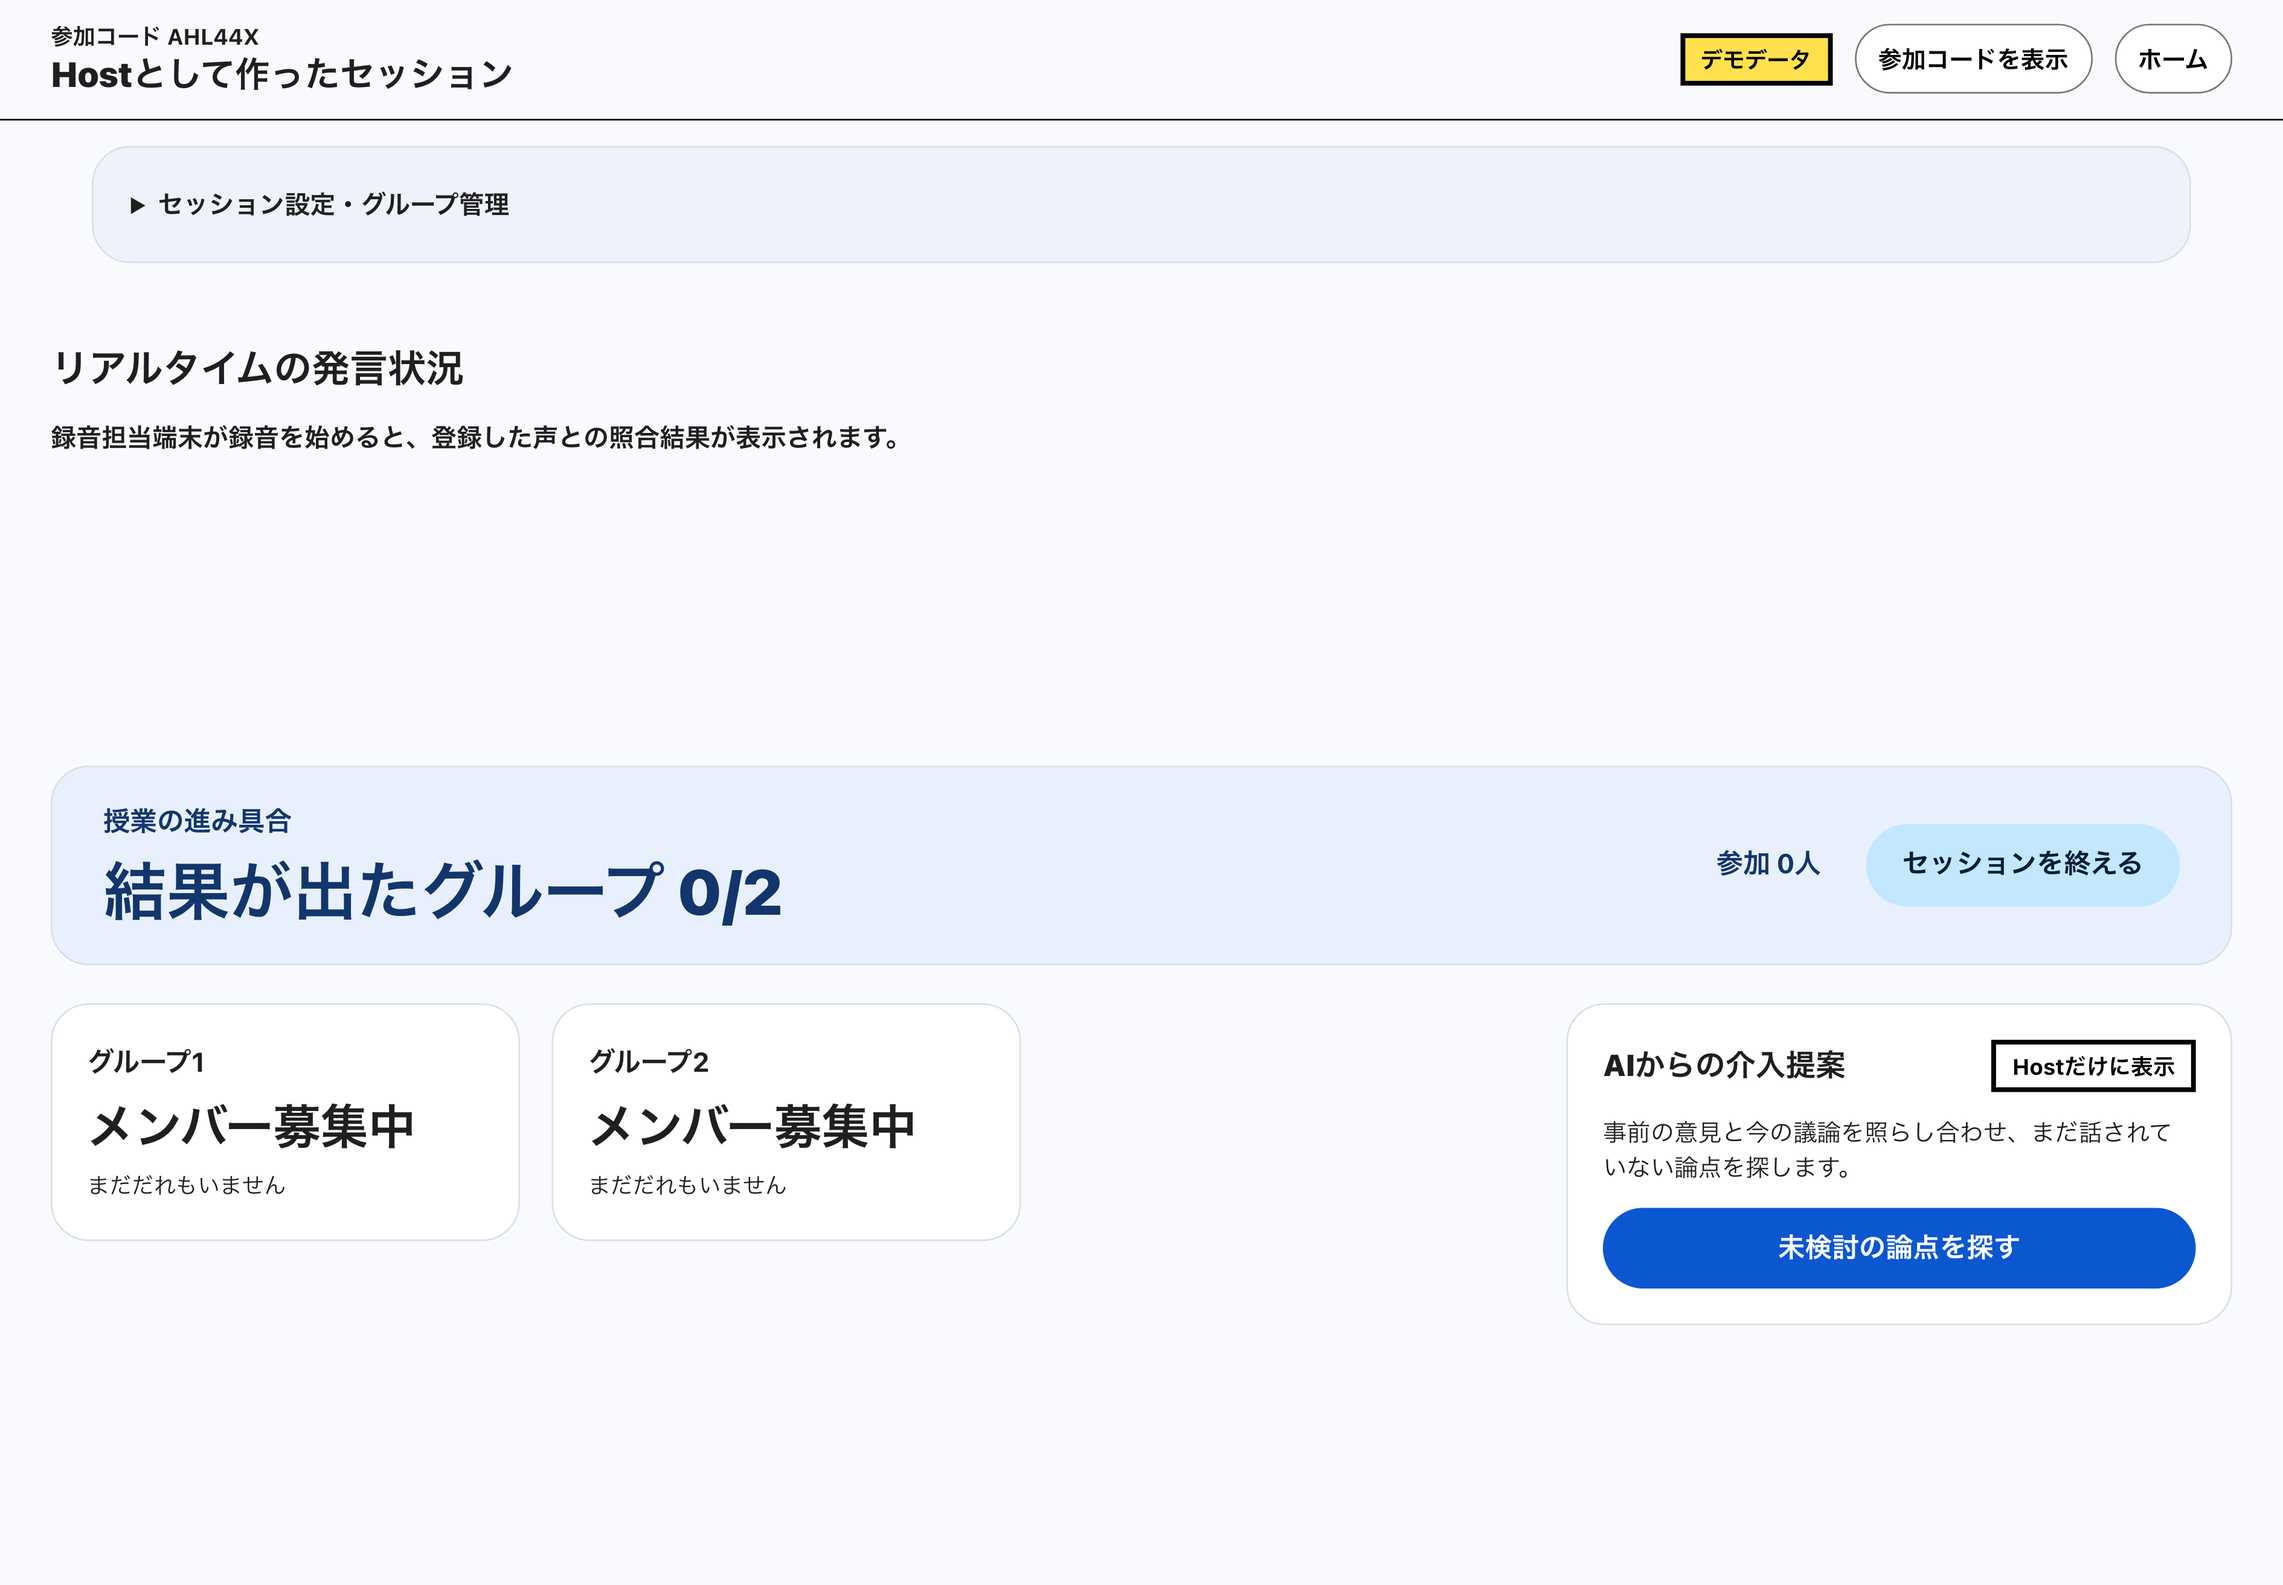
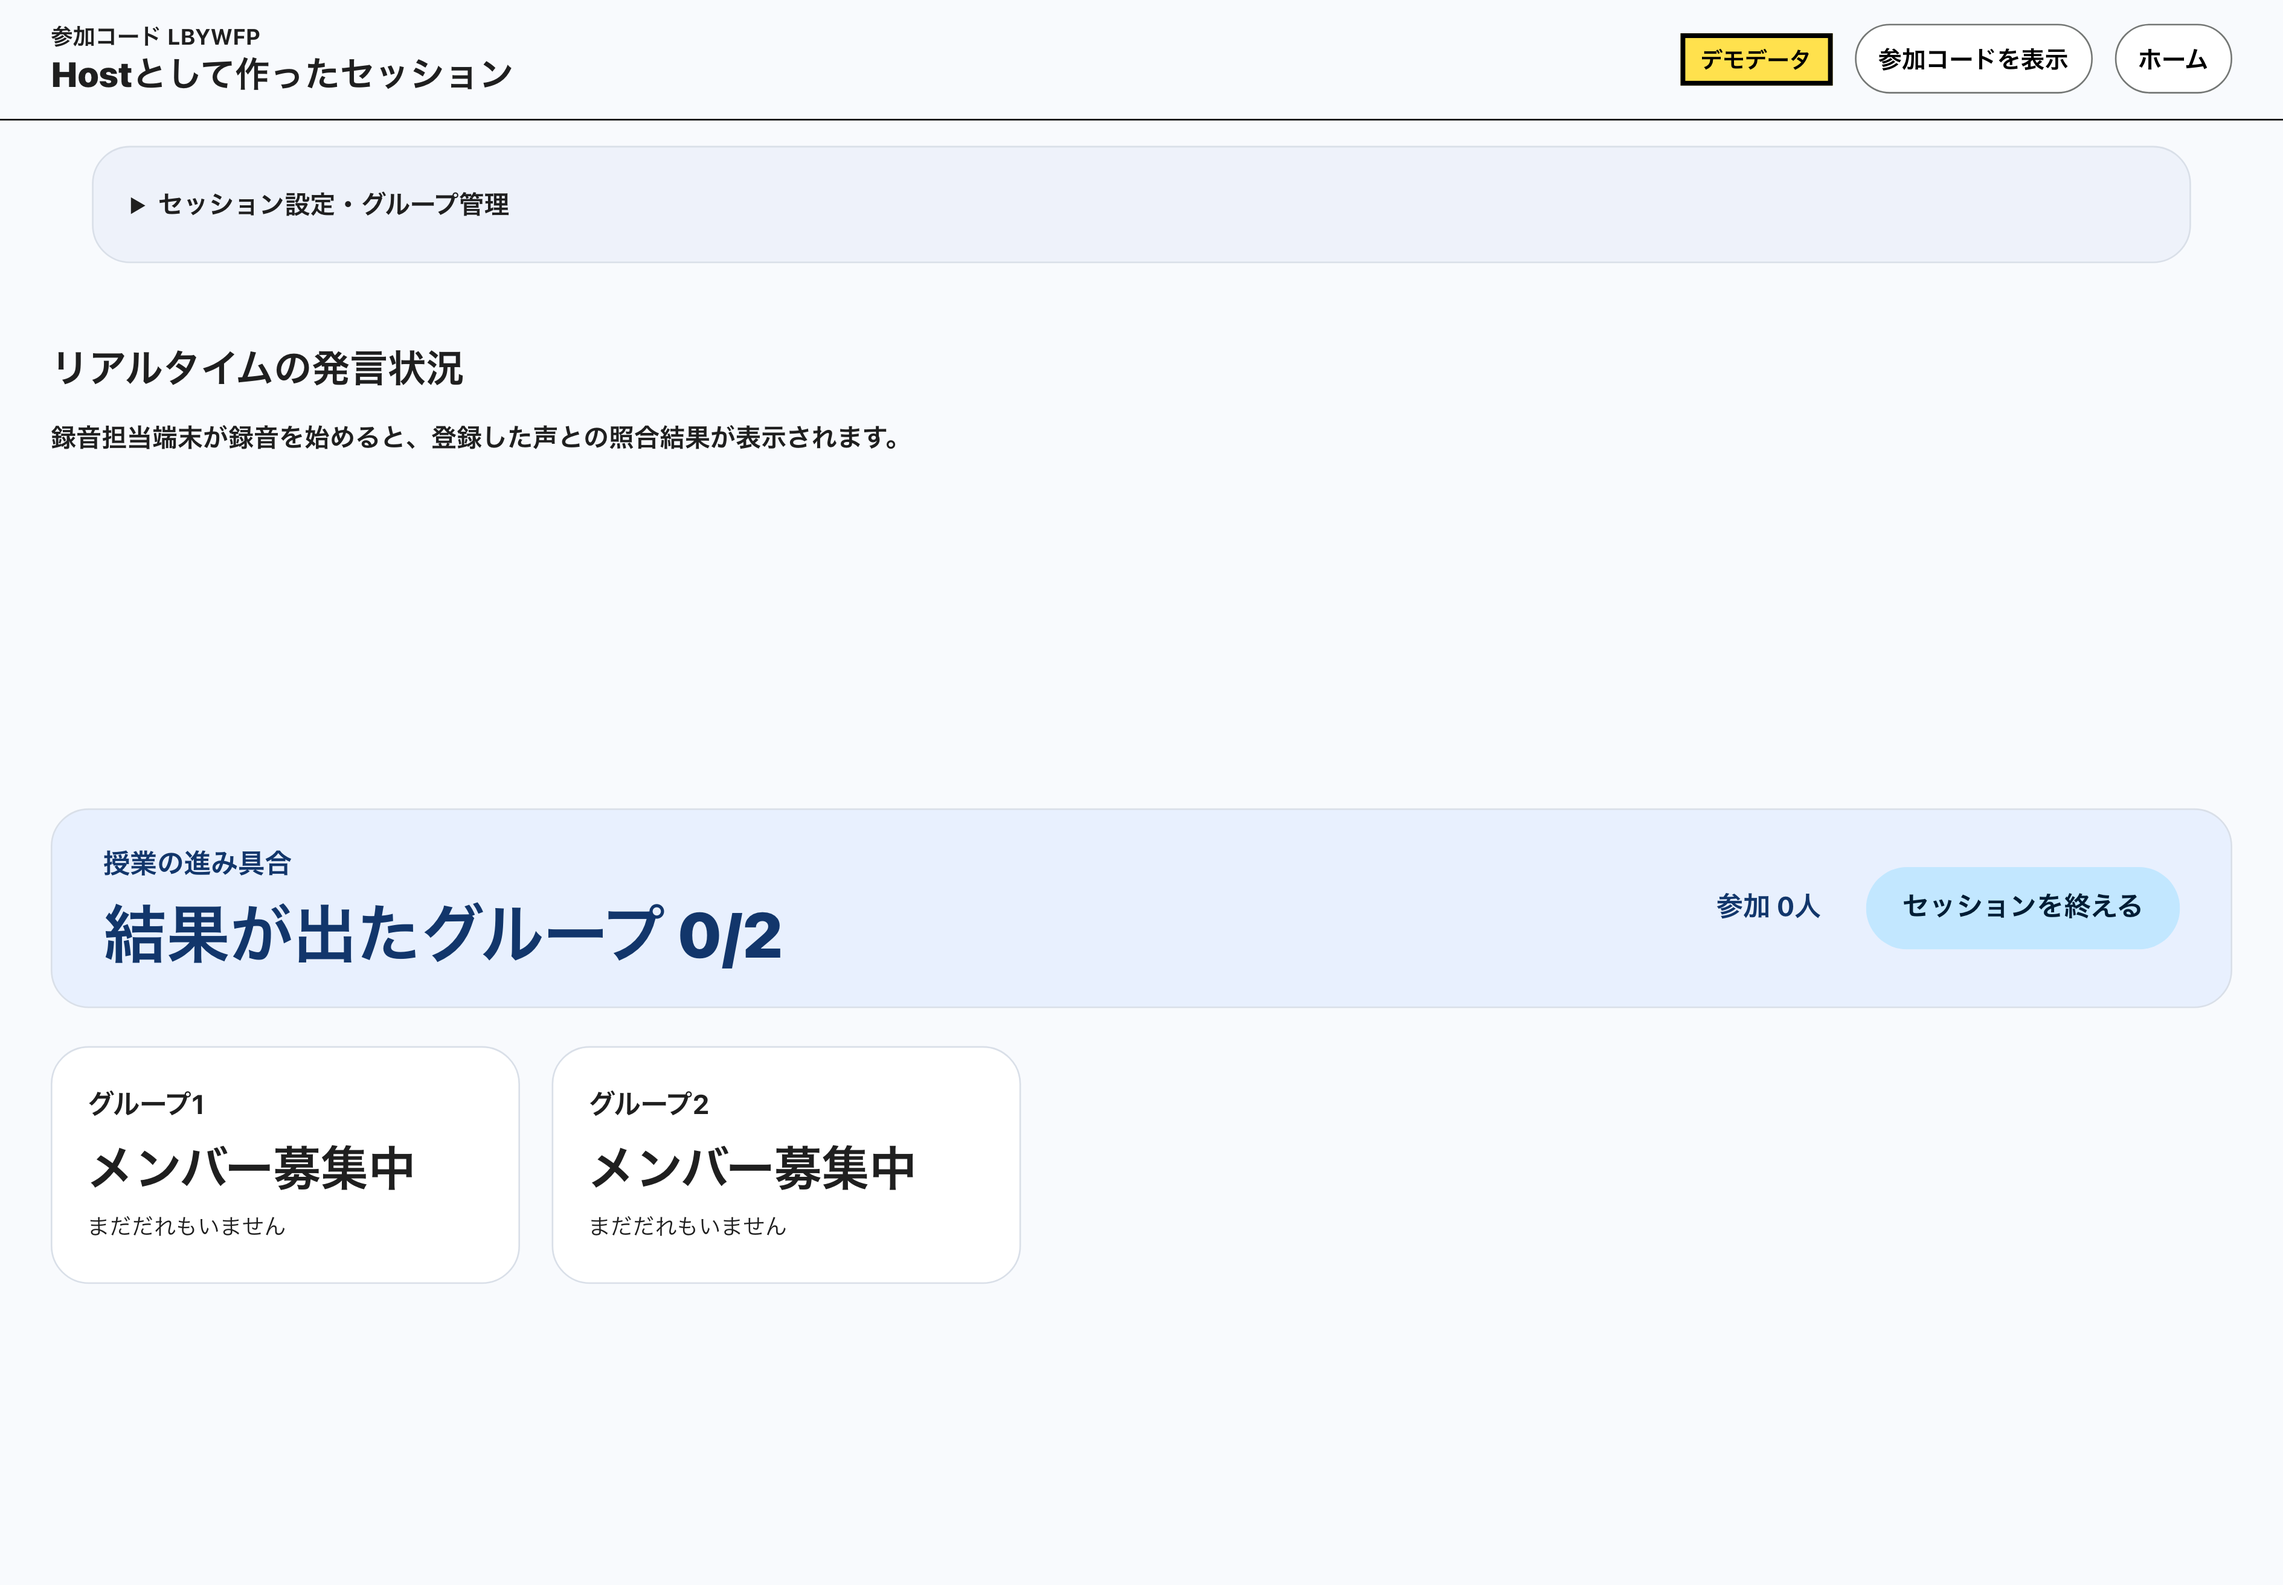
fix(web): 共有端末の人数表示を整え公開人声の検証結果を追加
実モデルでのブラウザ通し試験と別録音の照合結果、PC・スマホ幅の画面を記録する。参加人数は端末ではなく名簿を数え、短い発話時間を小数表示する。

diff --git a/web/src/components/Speaking.tsx b/web/src/components/Speaking.tsx
@@ -13,8 +13,8 @@ export function SpeakingRates({ state }: { state: SpeakingState }) {
     {state.source === 'model' && <p className="t-note">実音声モデルで照合しています。</p>}
     {state.source === 'mock' && <p>音声モックのテスト表示です。実際の声は識別していません。</p>}
     <p>直近の発言者：{state.latest?.label ?? '発話なし'}</p>
-    {state.members.map((m) => <div key={m.uid}><span>{m.label}：{Math.round((state.talkMs[m.uid] ?? 0) / 1000)}秒 · {total ? `${Math.round((state.talkMs[m.uid] ?? 0) / total * 100)}%` : 'データなし'}</span><progress aria-label={`${m.label}の発言率`} value={state.talkMs[m.uid] ?? 0} max={total || 1} /></div>)}
-    <p>判別不能：{Math.round(state.unknownMs / 1000)}秒</p>
+    {state.members.map((m) => <div key={m.uid}><span>{m.label}：{((state.talkMs[m.uid] ?? 0) / 1000).toFixed(1)}秒 · {total ? `${Math.round((state.talkMs[m.uid] ?? 0) / total * 100)}%` : 'データなし'}</span><progress aria-label={`${m.label}の発言率`} value={state.talkMs[m.uid] ?? 0} max={total || 1} /></div>)}
+    <p>判別不能：{(state.unknownMs / 1000).toFixed(1)}秒</p>
     <p className="t-note">無音を除いた発話時間からの推定です。短い相づちや同時発話は誤判別し得ます。能力・意欲の評価には使用しません。</p>
   </section>;
 }

diff --git a/docs/mvp-roles.md b/docs/mvp-roles.md
@@ -132,3 +132,18 @@ GitHubのmain（017b78f）と公開済みPRを確認し、認証セッションP
 公開人声試験にはSherpa公式Nodeサンプルが参照する[csukuangfj/sr-data](https://github.com/csukuangfj/sr-data)の登録用・識別用の別録音を使用する（Apache-2.0）。`python3 speech/public_samples.py`で取得し、使用したリビジョン・出典・SHA-256を.local-data/public-voices/sources.jsonへ記録する。音声ファイルはPRへ含めない。これは中国語の公開人声2種類の接続確認で、日本語教室の精度試験ではない。
 
 `web/playwright.speaker.config.ts`は専用の実モデル画面試験用。SPEAKER_PYTHON、SPEAKER_EMBEDDING_MODEL、SPEAKER_VAD_MODEL、SPEAKER_LIVE_TEST_WAV（公開識別音声から作ったdiscussion.wav）を渡す。登録用ファイルは画面のファイル選択から送り、別録音をChromiumの擬似マイク入力へ流して、AudioWorklet→API→実モデル→Host/Guest表示・終了まで確認する。マイクのハードウェアや実iPadの検査とは区別する。Firestore/Auth/Geminiはエミュレータ/モックのまま、実際の話者モデルだけを実行する。
+
+### 公開人声の実データ検証結果（2026-11-06）
+
+出典リビジョンはsr-dataの92b4978ba6b4358e95be385e51e86ece86524d33。登録用ファイルを同一話者ごとに連結して先頭8秒を登録し、識別には別のtest録音を使用した。`scripts/public-speaker-evaluate.mjs`は実モデルで1秒区間を処理し、音声・特徴をログへ出さず集計のみ記録する。
+
+| 公開人声 | 評価区間 | 400ms以上の発話区間 | 正しく照合 | 判別不能 | 別話者への誤割当 |
+|---|---:|---:|---:|---:|---:|
+| サンプルA | 5 | 3 | 3 | 0 | 0 |
+| サンプルB | 8 | 7 | 5 | 2 | 0 |
+
+残る3区間は無音または短い発話として話者評価から除外した。2人・短い録音の結果で、一般的な識別精度や日本語教室の正答率を示さない。
+
+ブラウザ通し試験は、画面のファイル選択から2人の登録音声を送り、別録音を擬似マイクからAudioWorklet→API→実モデルへ流した。Host/Guestの実モデル表示、両者の発話時間、録音停止・端末保管、終了、ホームの終了表示まで検査する。共有端末の人数表示はアカウント数ではなく参加者名簿を数える。400msなどの短い発話時間は小数1桁の秒数で示す。
+
+専用試験では、直前のcheckでビルドしたNEXT_PUBLIC_FIREBASE_PROJECT_ID・エミュレータのポートに実行環境を合わせ、API_ORIGINも明示する（今回のオフセット30000ではhttp://127.0.0.1:38081）。Firestore/Authは専用エミュレータ、Gemini分析はモック、話者モデルと入力人声は実データ。クラウドpreviewは旧本番APIと共有するため、この通し結果とは分ける。
